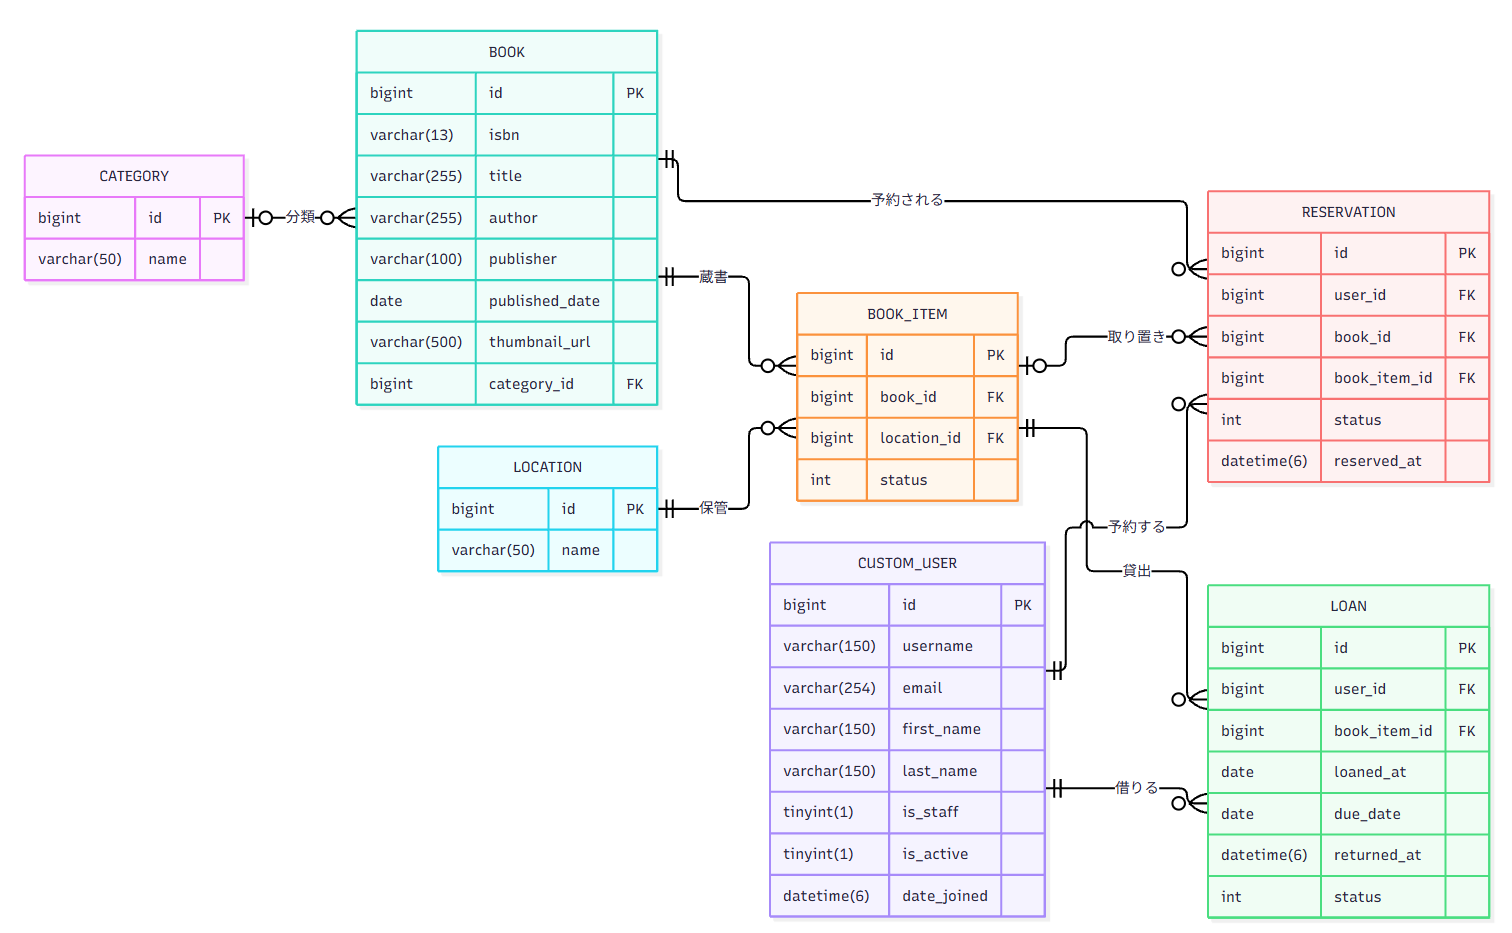
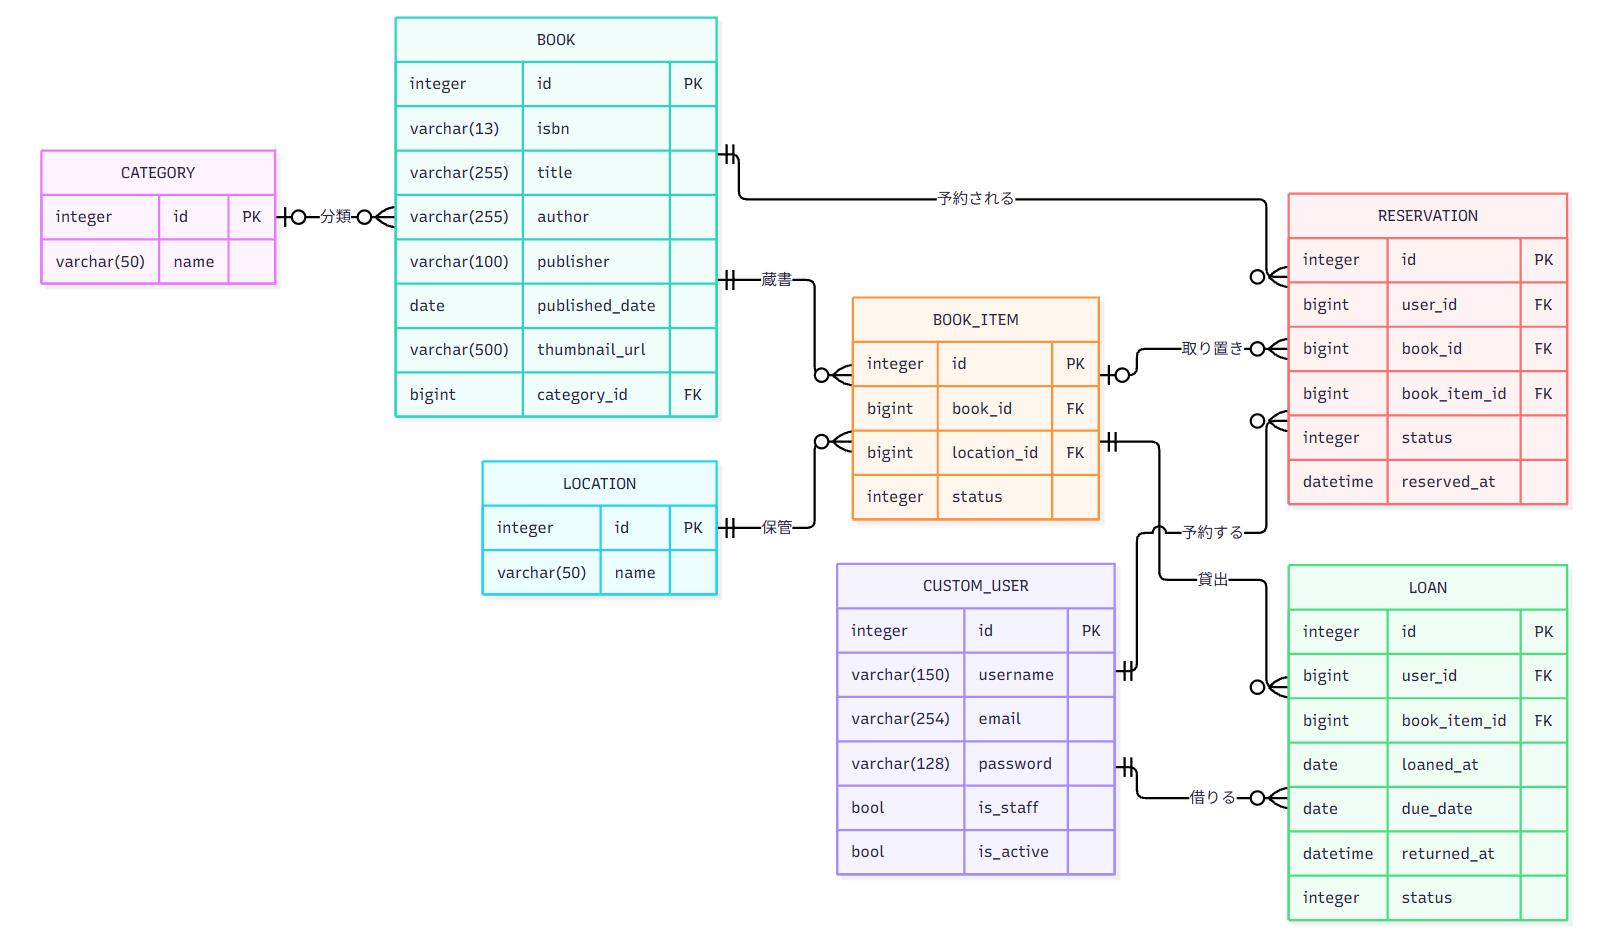
docs: README 文章およびGIF修正

Changed region(s): [[0.0, 0.0, 0.9947, 0.9946]]

diff --git a/README.md b/README.md
@@ -1,17 +1,18 @@
 # 分散型図書管理アプリ
 
 ## アプリ概要
-![アプリのデモ](docs/img/ovewview.gif)
+![アプリのデモ](docs/img/appovewview.gif)
+
 書籍を一箇所に集約するスペースや管理リソースが確保できない環境でも、各所に分散した書籍を一元管理し、貸出・返却・予約を行えるアプリです。
 
 ### 開発背景・課題
-※就労移行支援事業所から課題を出して頂き、開発を行った仮想プロジェクトです。
+※就労移行支援事業所から以下の課題を出して頂き、開発を行った仮想プロジェクトです。
 
 ビル内の複数の場所(本棚)に、数千冊規模の本が分散して保管されています。
 図書館として一箇所に集約できれば便利ですが、スペースの不足や管理負担の大きさから実現が難しい状況です。
 
 ### 解決策
-本は現在の保管場所に置いたまま、**データだけを「仮想の本棚」に集約**します。
+本は現在の保管場所に置いたまま、データを「仮想の本棚」に集約することによって、
 物理的に場所がなくても、検索・貸出・返却ができる仕組みを目指して開発しました。
 
 ### 機能一覧
@@ -44,24 +45,35 @@
 キーワードやカテゴリから書籍を検索し、詳細画面から貸出手続きを行えます。
 
 ### 書籍の登録（管理者機能）
-![書籍登録デモ](docs/img/register.gif)
+![書籍登録デモ](docs/img/appregister.gif)
 
 ISBNを使用してOpenBDAPIから書籍情報を自動取得し、保管場所と冊数を指定して登録できます。
 
 ## 使用技術
 | 分類 | 内容 |
 |------|------|
-| バックエンド   | Python/Django5.2 |
-| フロントエンド | HTML/Bootstrap5/HTMX |
-| データベース   | SQLite |
+| バックエンド   | Python3.13.13/Django5.2.16 |
+| フロントエンド | HTML/Bootstrap5/HTMX1.9.10 |
+| データベース   | SQLite3 |
 | 外部API | OpenBDAPI |
 | コード管理 | Git/GitHub |
 
 ## ER図
-![ER図](docs/img/erdiagram.png)
+![ER図](docs/img/ERdiagram.png)
 
+※ CUSTOM_USERは、Django標準のAbstractUserを継承したカスタムユーザーモデル（accounts_customuser）です。ER図では、テーブル間の関係を把握しやすくするため、必要なカラムのみを記載しています。
 ## 開発時に工夫した点
 
 ### 貸出・予約・返却処理の整合性確保
+複数の利用者が同時に同一の蔵書を借りようとした際に、データの不整合が発生する可能性を考慮しました。
+`transaction.atomic()`を利用し、貸出状況の確認からデータ更新までを一連のトランザクションとして管理しました。処理途中でエラーが発生した場合には変更をロールバックし、一部のデータだけが更新されることを防ぐようにしました。
 
-複数のテーブルを更新する処理をサービス層に分離し、Djangoのトランザクション機能を利用しました。処理途中のエラーによってデータに不整合が生じないよう考慮しています。
+### 書籍登録作業の効率化
+OpenBD APIを利用し、ISBNから書籍情報を自動取得する機能を実装しました。管理者の入力負担を大幅に軽減できるよう工夫しました。
+
+## 開発中に発生した課題と解決方法
+
+### 貸出・予約状態に応じた画面表示
+予約機能の実装時に、予約した書籍が受け取り可能になっても、貸出操作が正しく表示されない問題が発生しました。
+原因を調べたところ、画面の条件分岐で予約待ちと受け取り可能の状態を適切に区別できていないことが分かりました。
+そこで、予約状態ごとに表示条件を分け、受け取り可能な場合は予約に紐づく蔵書を貸し出せるよう修正しました。
